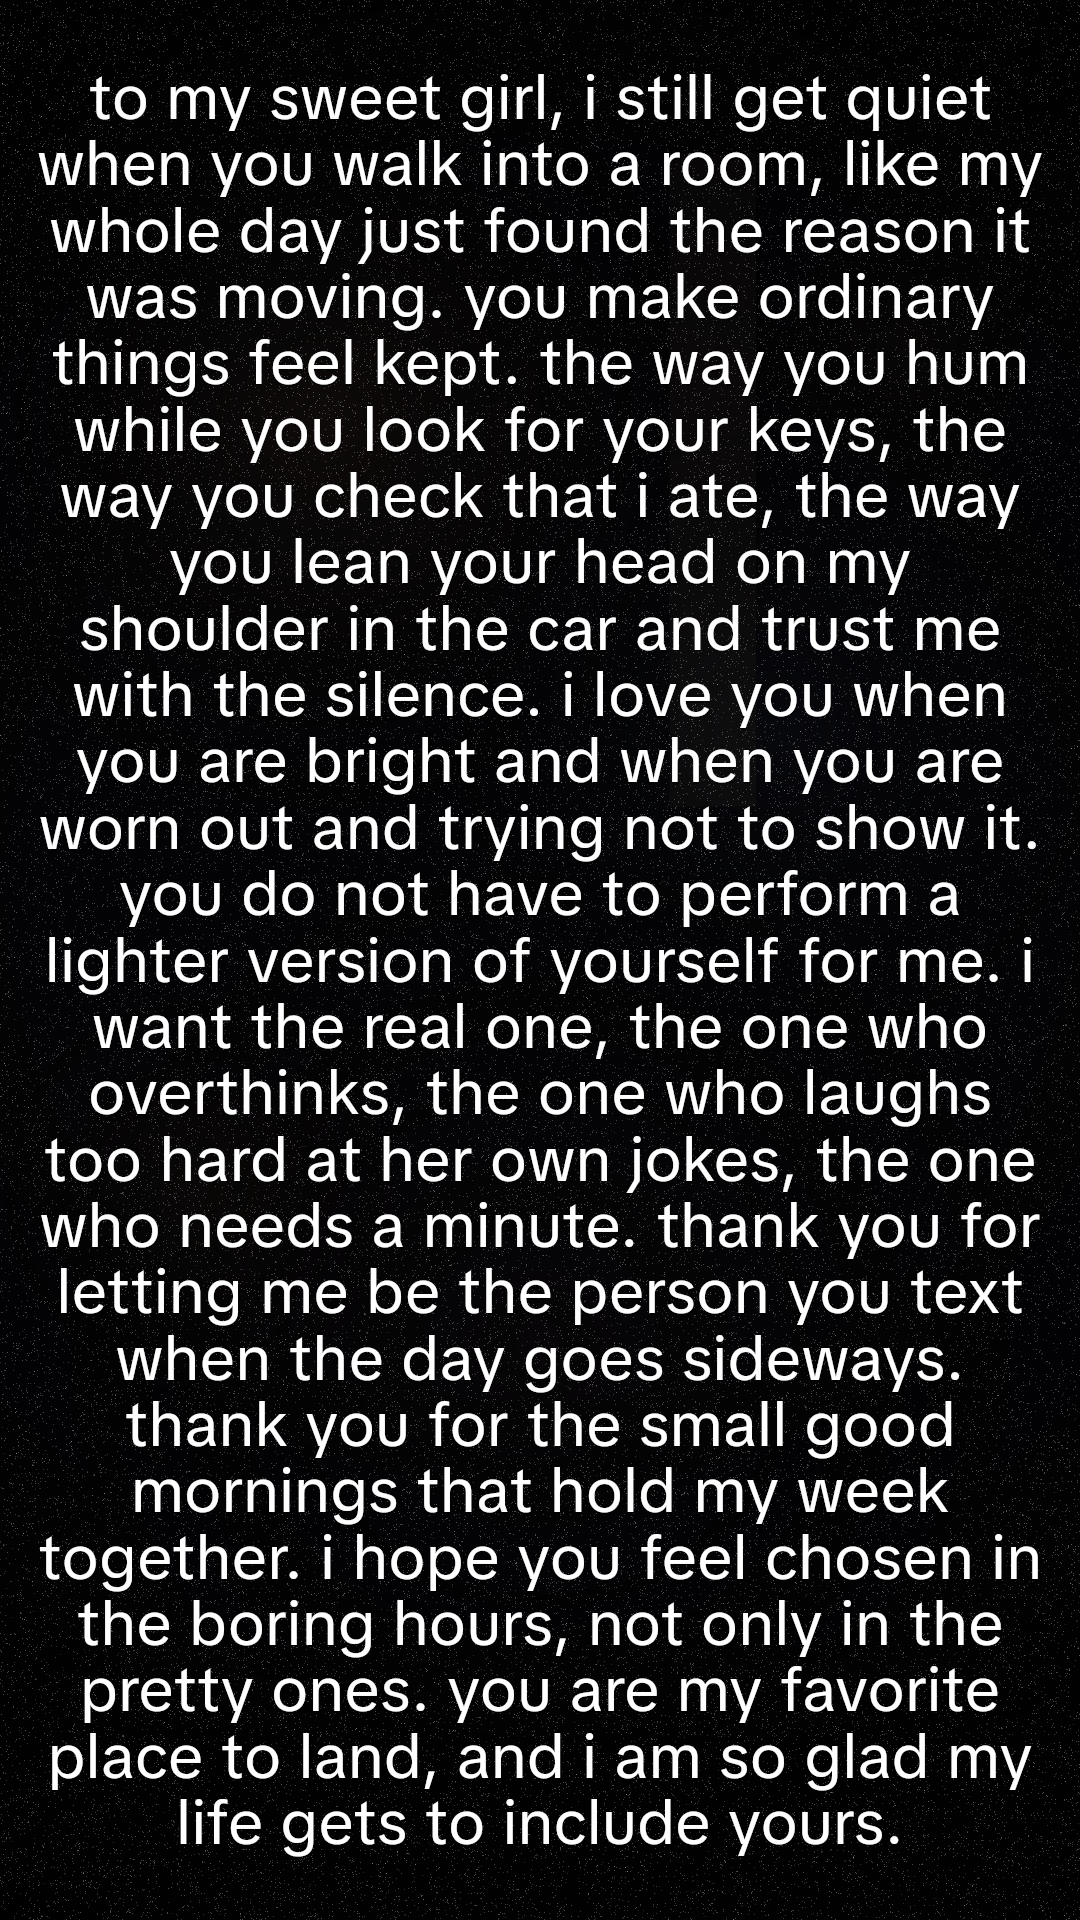
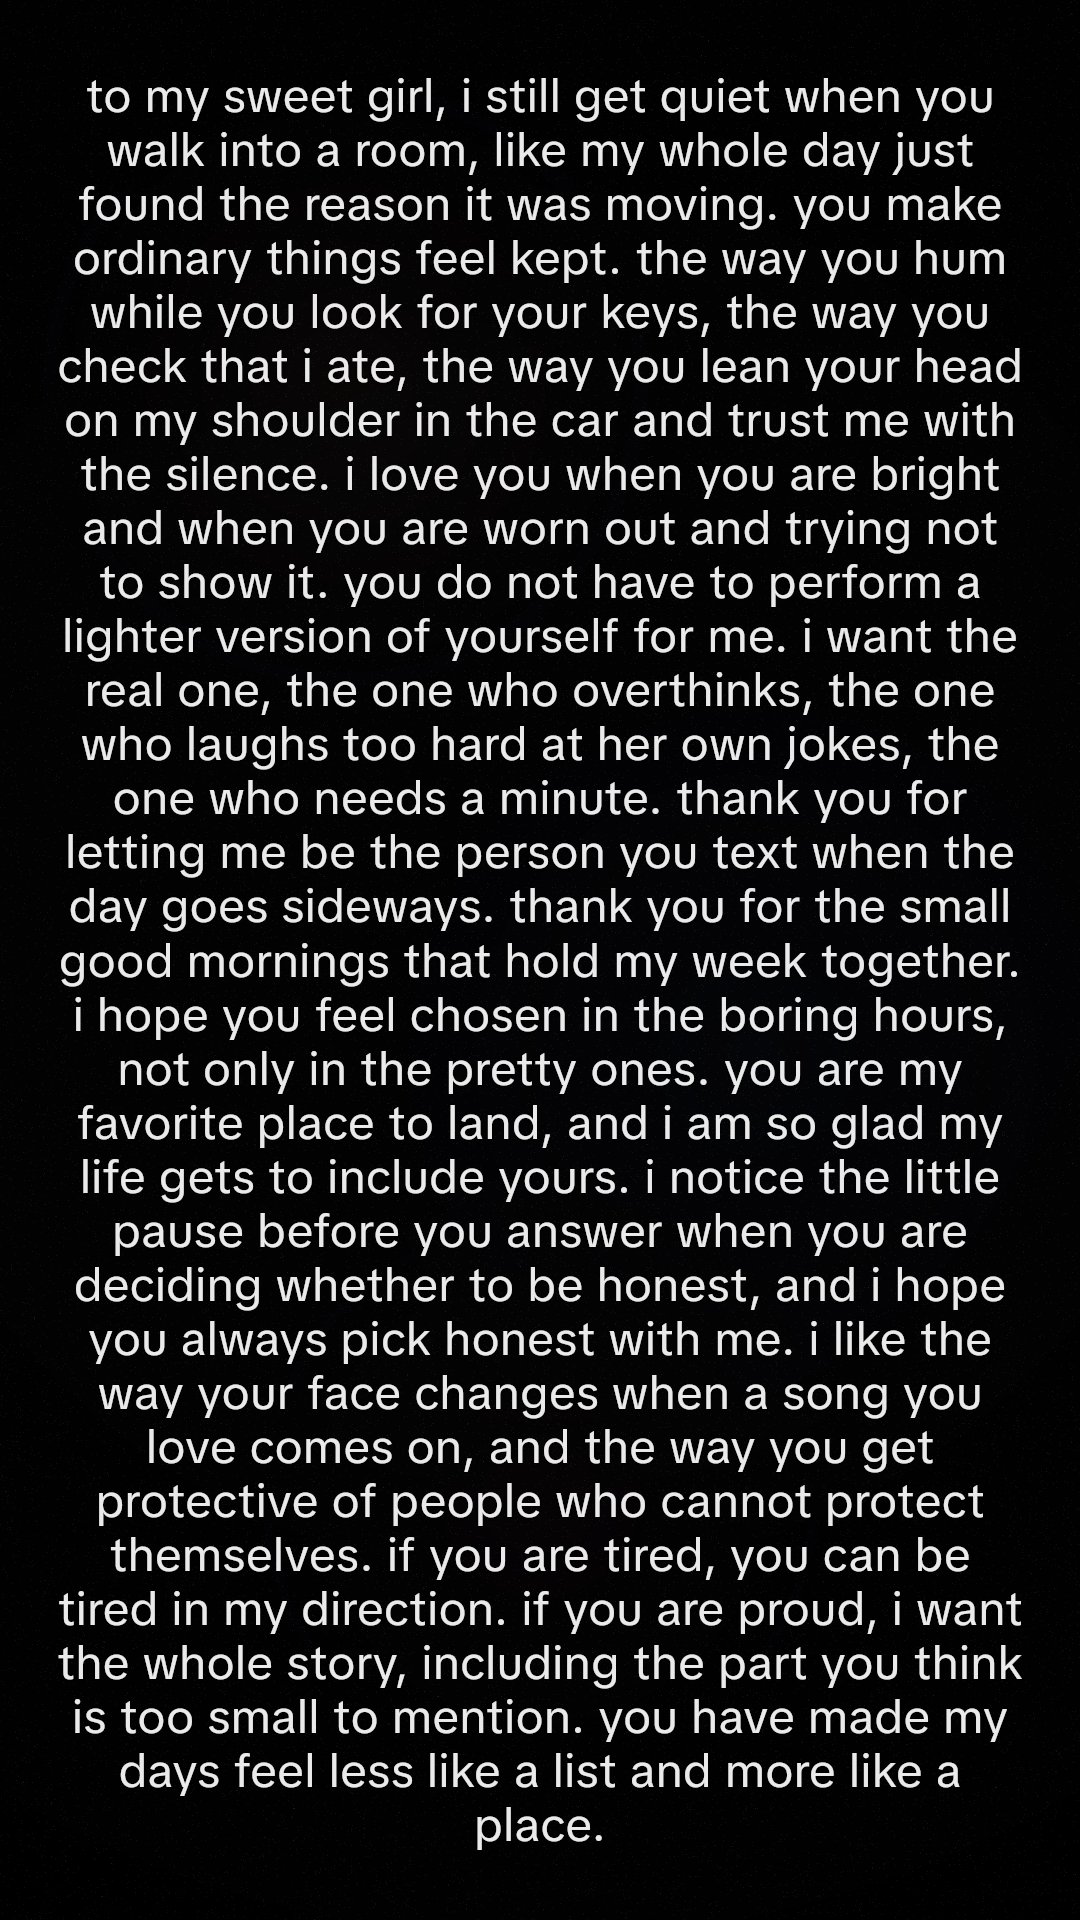
Soften the long-letter type so it fills the frame in smaller lines.
Letters now run about 260 to 300 words, set in regular weight at roughly 33 lines with 5% side margins, 92% white, and a soft shadow. Grain is fainter, and the darken stays heavy enough for lighter clips. The short quote treatment is unchanged.

Changed region(s): [[0.0306, 0.0312, 0.9778, 0.9688]]

diff --git a/app/lib/video-template-7-love-letter.ts b/app/lib/video-template-7-love-letter.ts
@@ -27,22 +27,23 @@ export const VIDEO_TEMPLATE7_HEIGHT = 1920;
 export type VideoTemplate7TextSource = 'letter' | 'quote' | 'custom';
 
 const FONT = '"TikTok Sans", system-ui, -apple-system, sans-serif';
-const LETTER_COLOR = '#FFFFFF';
+/** White at about 92% so the letter stays soft on a dark frame. */
+const LETTER_COLOR = 'rgba(255, 255, 255, 0.92)';
 /** Pale yellow / beige used on the short-quote posts. */
 const QUOTE_COLOR = '#F4E2A8';
 
-const LETTER_MARGIN_X = 0.034;
+const LETTER_MARGIN_X = 0.05;
 const LETTER_MARGIN_Y = 0.022;
-const LETTER_LINE_HEIGHT = 1.07;
-const LETTER_MIN_SIZE_RATIO = 0.02;
-const LETTER_MAX_SIZE_RATIO = 0.072;
+const LETTER_LINE_HEIGHT = 1.15;
+const LETTER_MIN_SIZE_RATIO = 0.018;
+const LETTER_MAX_SIZE_RATIO = 0.058;
 
 const QUOTE_MAX_WIDTH = 0.9;
 const QUOTE_LINE_HEIGHT = 1.22;
 const QUOTE_SIZE_RATIO = 0.084;
 const QUOTE_MIN_SIZE_RATIO = 0.05;
 
-const DARKEN_ALPHA = 0.52;
+const DARKEN_ALPHA = 0.58;
 
 const LETTERS = bank.letters;
 const QUOTES = bank.quotes;
@@ -127,7 +128,7 @@ function paintGrade(ctx: CanvasRenderingContext2D, frameWidth: number, frameHeig
   ctx.fillRect(0, 0, frameWidth, frameHeight);
 }
 
-/** Coarse film grain baked into the overlay so it sits on top of the clip. */
+/** Faint, dense noise so the frame reads as film grain rather than speckle. */
 function paintGrain(ctx: CanvasRenderingContext2D, frameWidth: number, frameHeight: number) {
   let image: ImageData;
   try {
@@ -136,13 +137,13 @@ function paintGrain(ctx: CanvasRenderingContext2D, frameWidth: number, frameHeig
     return;
   }
   const data = image.data;
-  const specks = Math.round(frameWidth * frameHeight * 0.09);
+  const specks = Math.round(frameWidth * frameHeight * 0.045);
   for (let n = 0; n < specks; n++) {
     const x = (Math.random() * frameWidth) | 0;
     const y = (Math.random() * frameHeight) | 0;
-    const light = Math.random() < 0.42;
-    const srcA = light ? 0.16 + Math.random() * 0.18 : 0.1 + Math.random() * 0.12;
-    const src = light ? 242 : 10;
+    const light = Math.random() < 0.5;
+    const srcA = light ? 0.035 + Math.random() * 0.04 : 0.03 + Math.random() * 0.035;
+    const src = light ? 230 : 12;
     const i = (y * frameWidth + x) * 4;
     const dstA = (data[i + 3] ?? 0) / 255;
     const outA = srcA + dstA * (1 - srcA);
@@ -156,6 +157,33 @@ function paintGrain(ctx: CanvasRenderingContext2D, frameWidth: number, frameHeig
     data[i + 3] = Math.round(outA * 255);
   }
   ctx.putImageData(image, 0, 0);
+}
+
+function drawLetterLines(
+  ctx: CanvasRenderingContext2D,
+  lines: string[],
+  frameWidth: number,
+  fontSize: number,
+  lineHeight: number,
+  centerY: number
+) {
+  ctx.textAlign = 'center';
+  ctx.textBaseline = 'middle';
+  ctx.font = `400 ${fontSize}px ${FONT}`;
+  const blockH = lines.length * lineHeight;
+  let y = centerY - blockH / 2 + lineHeight / 2;
+  ctx.fillStyle = LETTER_COLOR;
+  ctx.shadowColor = 'rgba(0, 0, 0, 0.72)';
+  ctx.shadowBlur = Math.max(2.2, fontSize * 0.09);
+  ctx.shadowOffsetX = 0;
+  ctx.shadowOffsetY = Math.max(1, fontSize * 0.045);
+  for (const line of lines) {
+    ctx.fillText(line, frameWidth / 2, y);
+    y += lineHeight;
+  }
+  ctx.shadowColor = 'transparent';
+  ctx.shadowBlur = 0;
+  ctx.shadowOffsetY = 0;
 }
 
 function drawCenteredLines(
@@ -289,14 +317,12 @@ export function paintVideoTemplate7Overlay(
       );
     } else {
       const layout = layoutLetter(ctx, text, frameWidth, frameHeight);
-      drawCenteredLines(
+      drawLetterLines(
         ctx,
         layout.lines,
         frameWidth,
-        frameHeight,
         layout.fontSize,
         layout.lineHeight,
-        LETTER_COLOR,
         frameHeight * 0.5
       );
     }

diff --git a/docs/video-template-7/README.md b/docs/video-template-7/README.md
@@ -2,7 +2,7 @@
 
 Spill It video tab, template id 7. A 5 second 1080×1920 clip: a dim, almost-still background with a heavy darken, vignette, and film grain, plus one static block of centred lowercase text. The words are on screen from the first frame to the last.
 
-Long letters are small, tight, and white, and they fill the frame. Short quotes are larger, pale yellow, and sit in the middle with wide empty margins.
+Long letters are regular-weight white type at about 92% opacity, with a soft shadow, about 5% side margins, and a line height of 1.15. A letter of roughly 220 to 300 words fills the frame at about 33 to 35 lines. Short quotes are larger, pale yellow, and sit in the middle with wide empty margins.
 
 ![Long letter and short quote](side-by-side.png)
 
